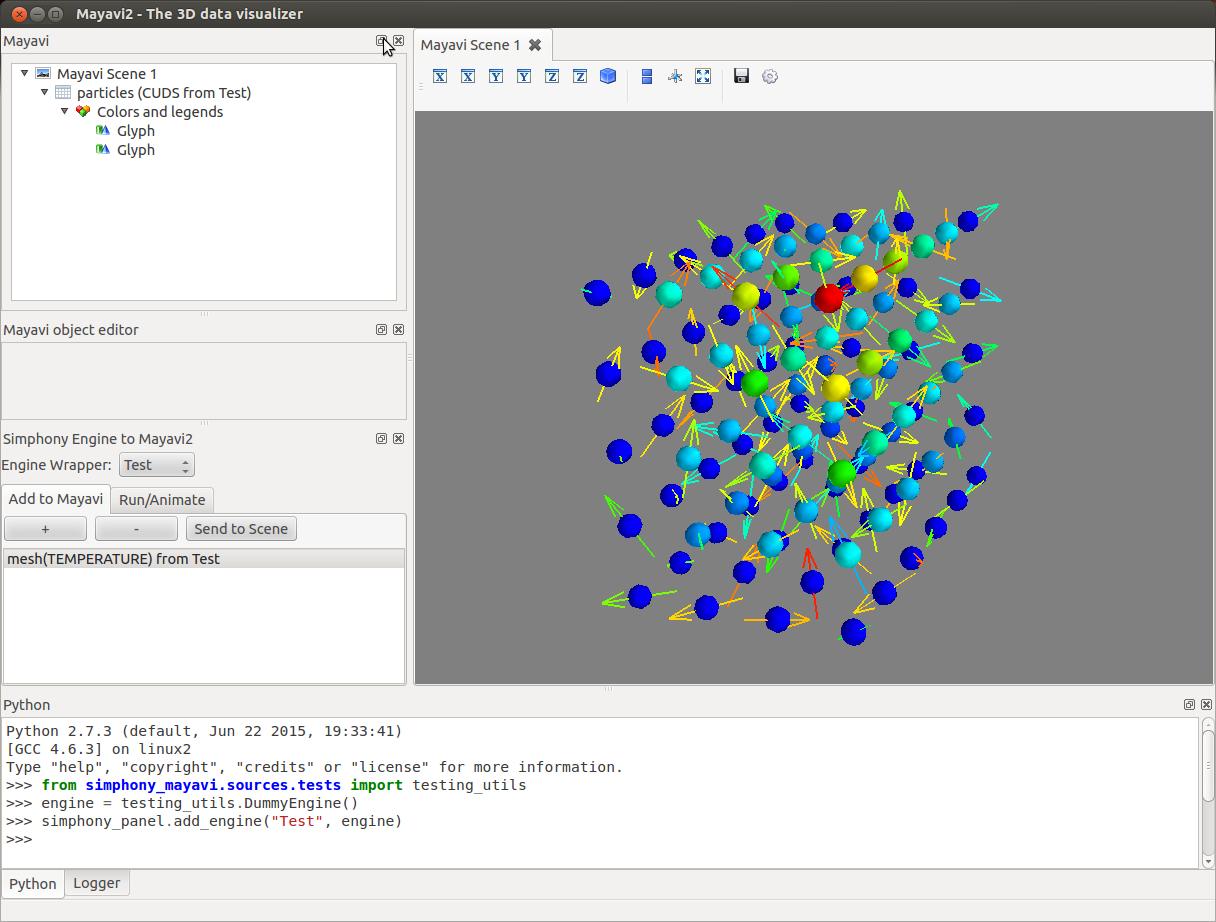
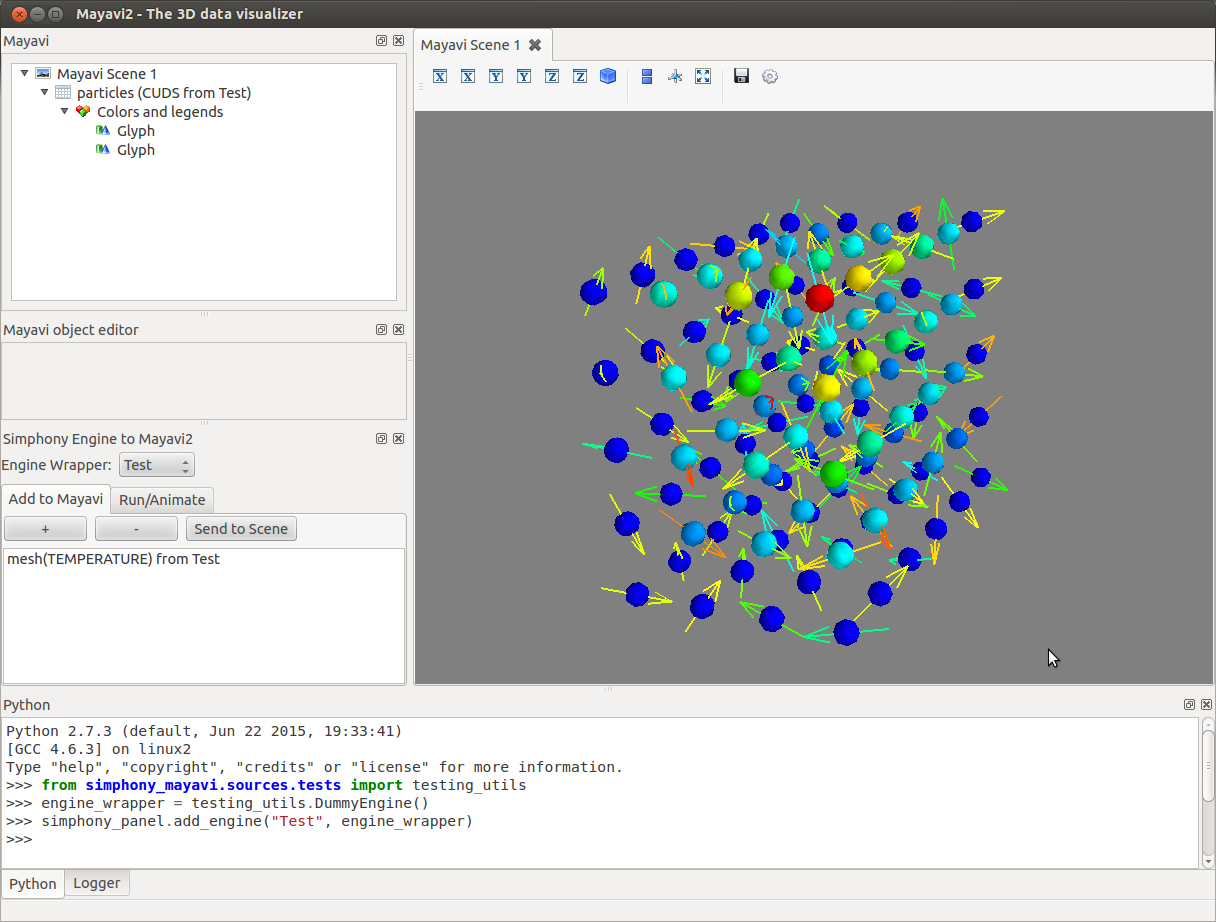
doc: use engine_wrapper in the example instead;

diff --git a/doc/source/mayavi2.rst b/doc/source/mayavi2.rst
@@ -95,8 +95,8 @@ and :func:`~simphony_mayavi.plugins.engine_manager.remove_engine`.
 .. code-block:: python
 
    from simphony_mayavi.sources.tests import testing_utils
-   engine = testing_utils.DummyEngine()
-   simphony_panel.add_engine("Test", engine)
+   engine_wrapper = testing_utils.DummyEngine()
+   simphony_panel.add_engine("Test", engine_wrapper)
 
 .. figure:: _images/engine_manager_mayavi2.png
 	   
